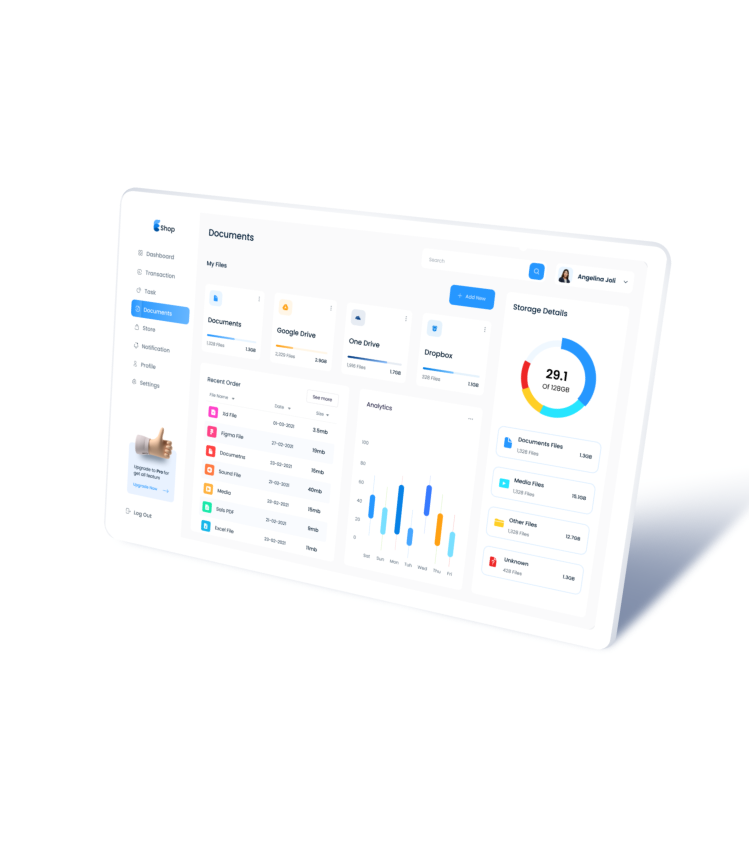
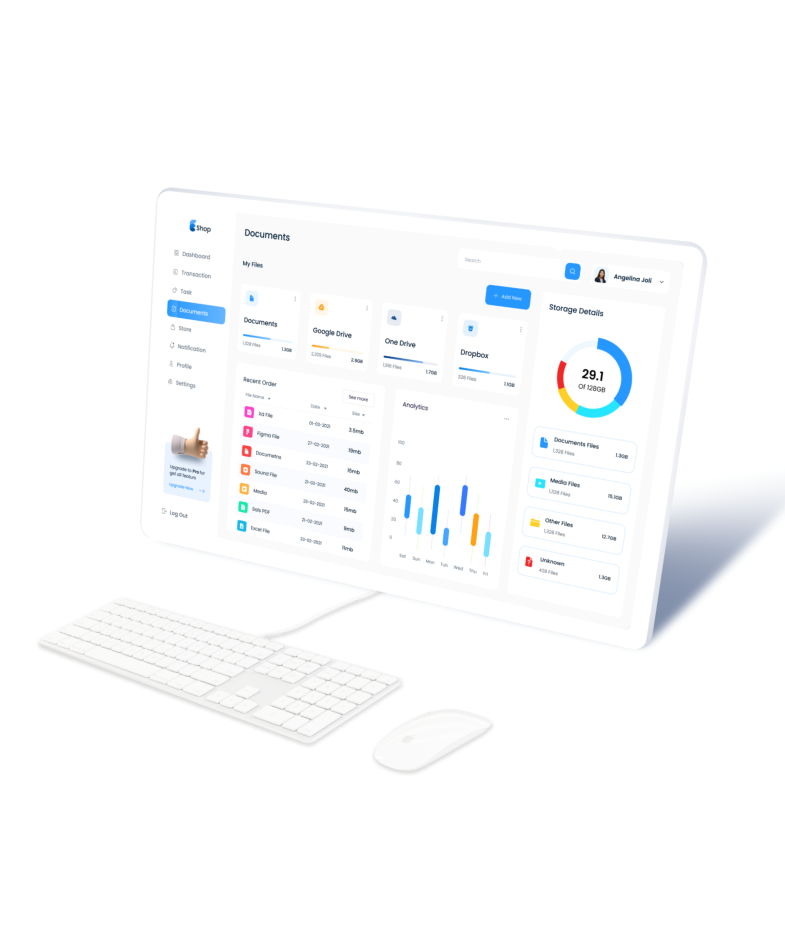
fifth_commit

diff --git a/index.html b/index.html
@@ -11,12 +11,17 @@
 
 <body>
     <header>
+        <div class="navigation">
+            <a href="/sankt-peterburg/transport?cd=1" class="link">Home</a>
+            <a href="/sankt-peterburg/transport?cd=1" class="link">Features</a>
+            <a href="/sankt-peterburg/transport?cd=1" class="link">Testimonial</a>
+            <a href="/sankt-peterburg/transport?cd=1" class="link">Pricing</a>
+            <a href="/sankt-peterburg/transport?cd=1" class="link">CTA</a>
+        </div>
         <div class="header">
             <div class="page_layout">
-                <div class="navigation"></div>
                 <span>
                 <img class="monitor" src="img/Pixel True Mockup medium.png">
-                <img class="keyboard" src="img/apple-keyboard-mb110-and-magic-mouse-3d-model-low-poly-max-obj-fbx-ma-dae-removebg-preview 1.png">
                 </span>
             </div>
         </div>

diff --git a/index.css b/index.css
@@ -11,27 +11,22 @@ body {
   display: flex;
 }
 
-header .monitor {
-  position: absolute;
-  width: 781.46px;
-  height: 846.93px;
-  left: 1151.72px;
-  top: 2.98px;
-}
-
-.keyboard {
-  position: absolute;
-  width: 458.16px;
-  height: 458.16px;
-  left: 1219px;
-  top: 445px;
-  filter: drop-shadow(0px 2px 4px rgba(202, 202, 200, 0.7));
+header img {
+  width: 789.46px;
+  height: 936.93px;
+  margin-left: 819px;
 }
 
 .navigation {
   width: 1137.82px;
   height: 53px;
-  position: absolute;
-  left: 231px;
-  top: 50px;
+  margin: 0 auto;
+  display: flex;
+  justify-content: center;
+}
+
+.navigation a {
+  font-family: "Poppins", sans-serif;
+  color: #ffff;
+  margin: 50px 30px;
 }
